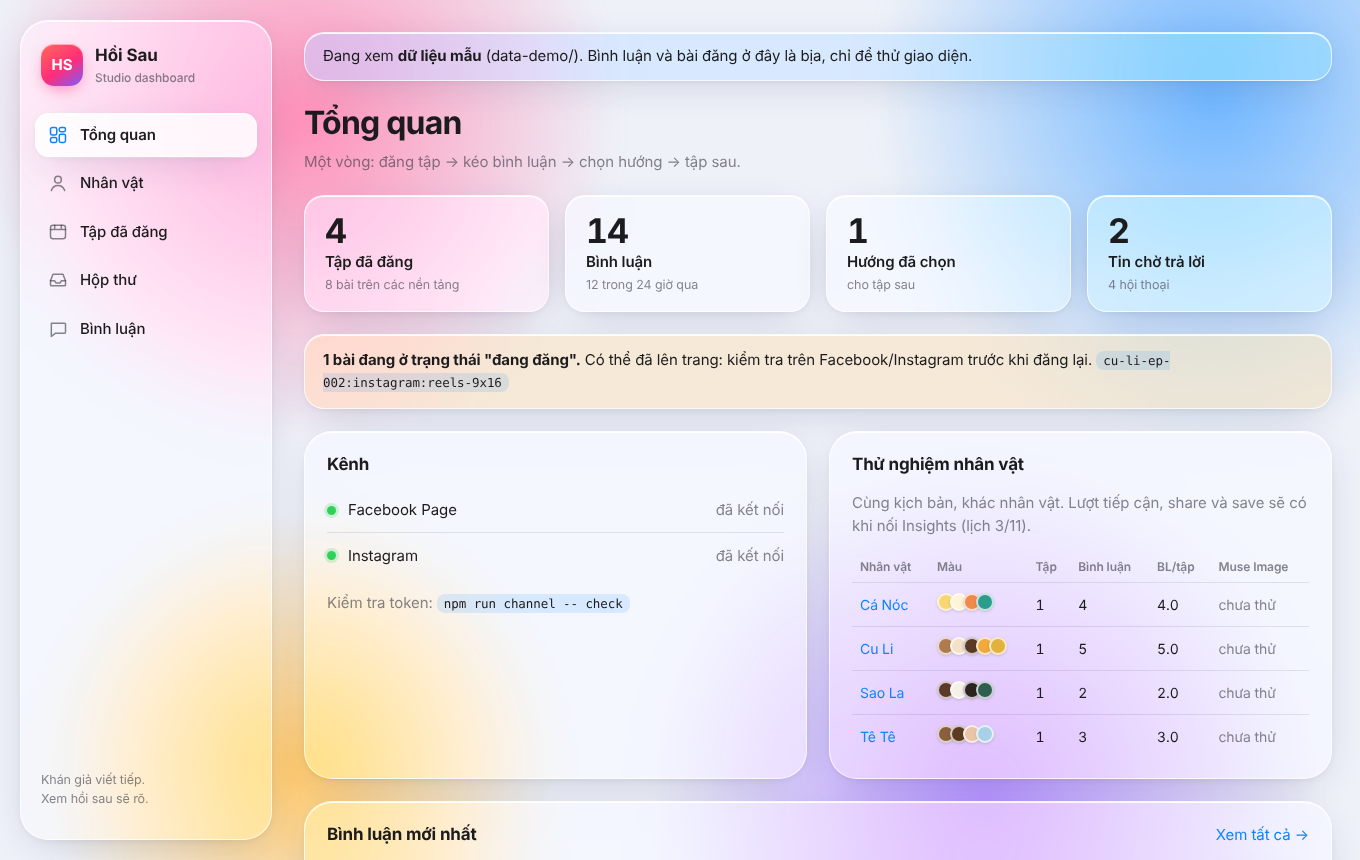
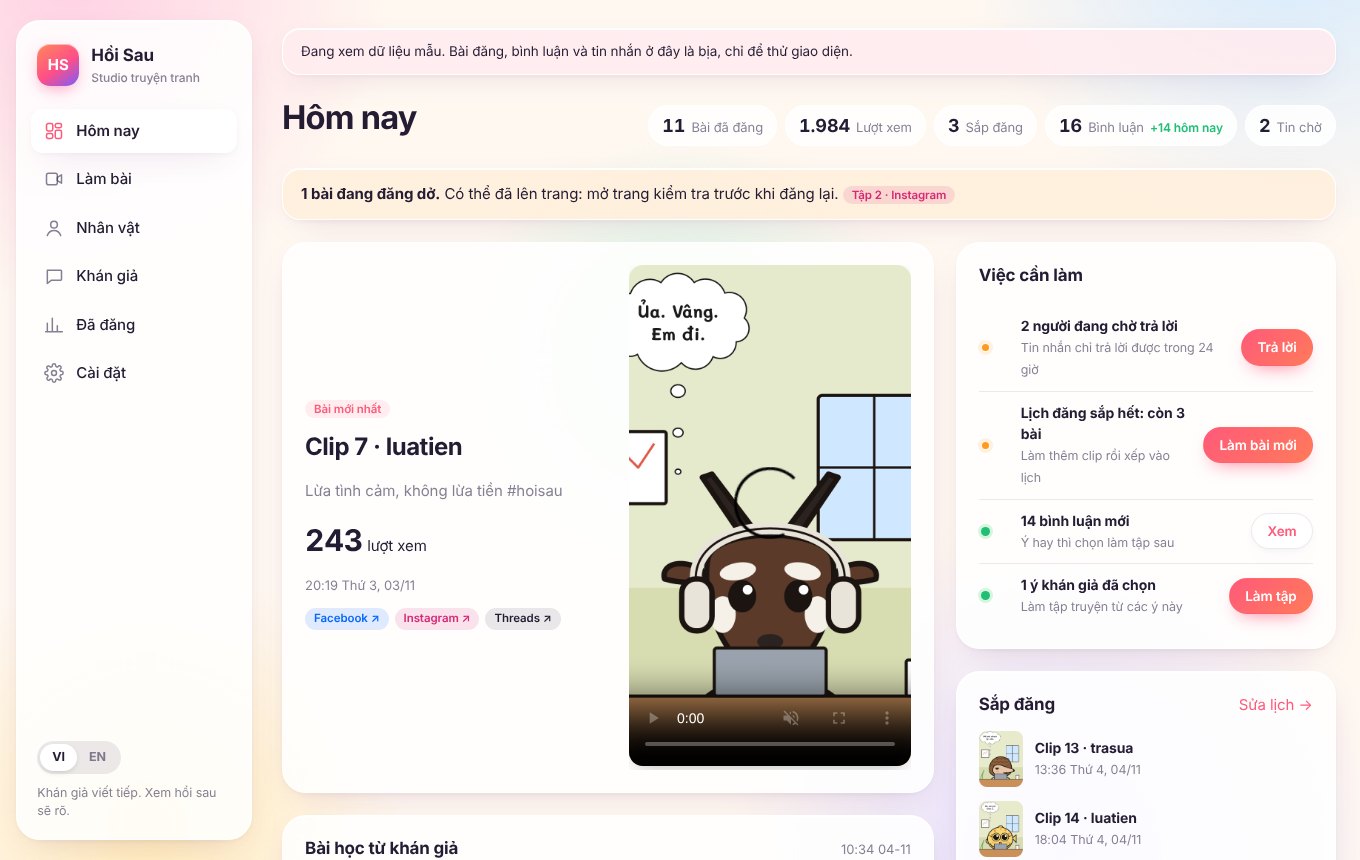
Dashboard polish after a full UI scan: Nét vẽ name, one panel first, to-do first on phones
- The style page and the setup steps say "Nét vẽ", matching the menu.
- One panel is listed first and is also the server default when no format is sent.
- On narrow screens the to-do card comes before the latest post.
- README screenshots retaken with the new menu.

Claude-Session: https://claude.ai/code/session_01RWyiXam1o4scTwsttFySHV

diff --git a/packages/dashboard/src/studio.ts b/packages/dashboard/src/studio.ts
@@ -206,7 +206,7 @@ export class Studio {
     const lead = form.get("lead") ?? "";
     const direction = (form.get("direction") ?? "").trim();
     if (!direction) throw new Error(t("Hãy viết hướng truyện."));
-    const format = (form.get("format") || "strip3") as EpisodeFormat;
+    const format = (form.get("format") || "single") as EpisodeFormat;
     const headline = (form.get("headline") ?? "").trim();
     const ep = createEpisode({ id: (form.get("id") ?? "").trim() || this.nextId(lead), lead, characters: form.getAll("with"), direction, credits, format, ...(headline ? { headline } : {}) }, this.opts.episodesDir);
     return ep.id;
@@ -371,7 +371,7 @@ export function studioPage(s: State, st: Studio, error?: string, inspiration = "
 <fieldset class="pick-cast"><legend>${esc(t("Nhân vật chính"))}</legend>${cast.map((c, i) => `<label class="cast-pick"><input type="radio" name="lead" value="${esc(c.profile.slug)}"${c.profile.slug === defaultLead || (!defaultLead && i === 0) ? " checked" : ""}><img src="${pic(c.profile.slug)}" alt="" style="background:${esc(c.profile.look.palette[0].hex)}44"><span>${esc(c.profile.name)}</span></label>`).join("")}</fieldset>
 <fieldset class="pick-cast small-pick"><legend>${esc(t("Cùng xuất hiện"))}</legend>${cast.map((c) => `<label class="cast-pick" data-slug="${esc(c.profile.slug)}"${c.profile.slug === defaultLead ? " hidden" : ""}><input type="checkbox" name="with" value="${esc(c.profile.slug)}"><img src="${pic(c.profile.slug)}" alt="" style="background:${esc(c.profile.look.palette[0].hex)}44"><span>${esc(c.profile.name)}</span></label>`).join("")}</fieldset>
 <label>${esc(t("Hướng truyện"))}<textarea name="direction" rows="3" required placeholder="${esc(t("Chuyện gì xảy ra trong tập này"))}">${esc(ideas.map((c) => c.text).join("\n"))}</textarea></label>
-<fieldset class="pick-format"><legend>${esc(t("Kiểu truyện"))}</legend>${EPISODE_FORMATS.map((f) => `<label class="format-pick"><input type="radio" name="format" value="${f}"${f === "single" ? " checked" : ""}><span class="fmt fmt-${f}">${"<i></i>".repeat(f === "single" ? 1 : f === "strip3" ? 3 : 5)}</span>${esc(t(FORMAT_LABEL[f]))}</label>`).join("")}</fieldset>
+<fieldset class="pick-format"><legend>${esc(t("Kiểu truyện"))}</legend>${[...EPISODE_FORMATS].sort((a, b) => Number(b === "single") - Number(a === "single")).map((f) => `<label class="format-pick"><input type="radio" name="format" value="${f}"${f === "single" ? " checked" : ""}><span class="fmt fmt-${f}">${"<i></i>".repeat(f === "single" ? 1 : f === "strip3" ? 3 : 5)}</span>${esc(t(FORMAT_LABEL[f]))}</label>`).join("")}</fieldset>
 ${ideas.length ? `<fieldset><legend>${esc(t("Ghi công người bình luận"))}</legend>${ideas.map((c) => `<label class="check"><input type="checkbox" name="credit" value="${esc(`${c.author.name}::${c.text}`)}" checked> <b>${esc(c.author.name)}</b>: <span class="muted">${esc(c.text)}</span></label>`).join("")}</fieldset>` : `<p class="muted small">${t('Mẹo: chọn bình luận hay ở trang <a href="/comments">Bình luận</a>, chúng sẽ hiện ở đây làm hướng truyện.')}</p>`}
 ${inspiration}
 <div class="row-actions"><button class="btn on">${esc(t("Tạo tập"))}</button>${aiNote(st)}</div></form>
@@ -466,7 +466,7 @@ ${section("canon", canon ? (canon.facts.length ? `<ul>${canon.facts.map((f) => `
 export function stylePage(st: Studio, error?: string): string {
   const style = loadStyle(st.opts.seriesDir);
   const job = st.jobs.get("style");
-  if (!style) return layout(t("Phong cách"), "/style", `<header class="page-head"><div><h1>${esc(t("Phong cách"))}</h1></div></header><div class="card empty"><p>${esc(t("Chưa có bộ phong cách."))}</p></div>`);
+  if (!style) return layout(t("Nét vẽ"), "/style", `<header class="page-head"><div><h1>${esc(t("Nét vẽ"))}</h1></div></header><div class="card empty"><p>${esc(t("Chưa có bộ phong cách."))}</p></div>`);
   const runFile = join(st.styleDir, "run.json");
   const renders: StyleRender[] = existsSync(runFile) ? (JSON.parse(readFileSync(runFile, "utf8")) as { renders: StyleRender[] }).renders : [];
   const cards = style.variants
@@ -486,10 +486,10 @@ export function stylePage(st: Studio, error?: string): string {
   const locked = style.reference
     ? `<section class="card"><h2>${esc(t("Ảnh mẫu đang dùng"))}</h2><img class="sheet" src="/series-media/${encodeURIComponent(style.reference)}" alt=""><p class="muted small">${esc(t("Ảnh này đi kèm mọi bản vẽ chuẩn và khung đầu của mỗi tập. Đổi phong cách thì nên vẽ lại bản chuẩn của các nhân vật."))}</p></section>`
     : "";
-  const body = `<header class="page-head"><div><h1>${esc(t("Phong cách"))}</h1><p class="muted">${esc(t("Một kiểu vẽ cho cả series. Cùng một cảnh được vẽ theo từng kiểu; chọn kiểu đọc rõ nhất trên điện thoại."))}</p></div></header>
+  const body = `<header class="page-head"><div><h1>${esc(t("Nét vẽ"))}</h1><p class="muted">${esc(t("Một kiểu vẽ cho cả series. Cùng một cảnh được vẽ theo từng kiểu; chọn kiểu đọc rõ nhất trên điện thoại."))}</p></div></header>
 ${bar}
 <div class="styles">${cards}</div>
 ${locked}
 <section class="card"><details><summary><b>${esc(t("Phần chung"))}</b> <span class="muted small">${esc(t("Mô tả gửi AI"))}</span></summary><p>${esc(style.base)}</p>${style.avoid.length ? `<h3>${esc(t("Tránh"))}</h3><ul>${style.avoid.map((a) => `<li>${esc(a)}</li>`).join("")}</ul>` : ""}</details></section>`;
-  return layout(t("Phong cách"), "/style", body);
+  return layout(t("Nét vẽ"), "/style", body);
 }

diff --git a/packages/dashboard/src/views.ts b/packages/dashboard/src/views.ts
@@ -711,7 +711,7 @@ export function settingsPage(settings: SettingView[], opts: { demo: boolean; moc
 ${flash(opts.ok, opts.error)}
 ${opts.demo ? `<div class="notice">${esc(t("Đang xem dữ liệu mẫu nên không lưu cài đặt."))}</div>` : ""}
 <div class="settings-grid"><form class="card form" method="post" action="/settings"><h2>${esc(t("Khoá kết nối"))}</h2>${rows}<button class="btn on"${opts.demo ? " disabled" : ""}>${esc(t("Lưu"))}</button></form>
-<div class="settings-side"><section class="card"><h2>${esc(t("Thứ tự thiết lập"))}</h2><ol class="flow vertical"><li><b>1</b><span>${esc(t("Nhập Mã ứng dụng Meta và Khoá bí mật"))}</span></li><li><b>2</b><span>${t('Vào <a href="/channels">Kênh</a>, bấm Kết nối Facebook, chọn Trang')}</span></li><li><b>3</b><span>${esc(t("Nhập khoá AI Muse để AI viết và vẽ"))}</span></li><li><b>4</b><span>${t('Vào <a href="/style">Phong cách</a> chọn kiểu vẽ, rồi vẽ bản chuẩn cho nhân vật')}</span></li></ol>
+<div class="settings-side"><section class="card"><h2>${esc(t("Thứ tự thiết lập"))}</h2><ol class="flow vertical"><li><b>1</b><span>${esc(t("Nhập Mã ứng dụng Meta và Khoá bí mật"))}</span></li><li><b>2</b><span>${t('Vào <a href="/channels">Kênh</a>, bấm Kết nối Facebook, chọn Trang')}</span></li><li><b>3</b><span>${esc(t("Nhập khoá AI Muse để AI viết và vẽ"))}</span></li><li><b>4</b><span>${t('Vào <a href="/style">Nét vẽ</a> chọn kiểu vẽ, rồi vẽ bản chuẩn cho nhân vật')}</span></li></ol>
 ${opts.mock ? `<p class="muted small">${esc(t("AI đang ở chế độ vẽ thử: ảnh là mẫu, không tốn lượt."))}</p>` : ""}</section>${backupCard(opts.backup)}</div></div>`;
   return layout(t("Cài đặt"), "/settings", body);
 }

diff --git a/packages/dashboard/src/i18n-en.ts b/packages/dashboard/src/i18n-en.ts
@@ -339,7 +339,7 @@ export const EN: Record<string, string> = {
   "Nhập Mã ứng dụng Meta và Khoá bí mật": "Enter the Meta App ID and App Secret",
   'Vào <a href="/channels">Kênh</a>, bấm Kết nối Facebook, chọn Trang': 'Go to <a href="/channels">Channels</a>, click Connect Facebook, pick the Page',
   "Nhập khoá AI Muse để AI viết và vẽ": "Enter the Muse AI key so the AI can write and draw",
-  'Vào <a href="/style">Phong cách</a> chọn kiểu vẽ, rồi vẽ bản chuẩn cho nhân vật': 'Pick an <a href="/style">Art style</a>, then draw each character\'s model sheet',
+  'Vào <a href="/style">Nét vẽ</a> chọn kiểu vẽ, rồi vẽ bản chuẩn cho nhân vật': 'Pick an <a href="/style">Art style</a>, then draw each character\'s model sheet',
   "AI đang ở chế độ vẽ thử: ảnh là mẫu, không tốn lượt.": "The AI is in test mode: pictures are samples and cost nothing.",
   "Mã ứng dụng Meta (App ID)": "Meta App ID",
   "developers.facebook.com → Ứng dụng của bạn → Cài đặt → Thông tin cơ bản": "developers.facebook.com → My Apps → Settings → Basic",

diff --git a/packages/dashboard/static/app.css b/packages/dashboard/static/app.css
@@ -535,7 +535,7 @@ img.sheet { max-width: 100%; }
   .side-foot { align-items: center; padding: 0; }
   .lang { flex-direction: column; border-radius: 14px; }
   .overview { grid-template-columns: 1fr; }
-  .ov-side { position: static; }
+  .ov-side { position: static; order: -1; }
   .settings-grid { grid-template-columns: 1fr; }
 }
 @media (max-width: 1000px) {
@@ -558,7 +558,7 @@ img.sheet { max-width: 100%; }
   main { padding: 0 2px 40px; }
   .page-head { align-items: flex-start; }
   .overview, .settings-grid { grid-template-columns: 1fr; }
-  .ov-side { position: static; }
+  .ov-side { position: static; order: -1; }
   .grid2 { grid-template-columns: 1fr; }
   .card { padding: 16px; border-radius: 20px; }
   .comment { grid-template-columns: 36px minmax(0, 1fr) auto; }

diff --git a/docs/studio-pipeline.md b/docs/studio-pipeline.md
@@ -96,7 +96,7 @@ npm run studio -- episode list
 # Add --mock to any of these to run offline with placeholder answers and images.
 ```
 
-The same actions are in the dashboard (`npm run dashboard`). **Phong cách** draws the four style variants and locks the one you pick. **Nhân vật → Tạo nhân vật** makes a character, **Vẽ sheet** draws its model sheet, pose sheet and test panels in the series style, **Khoá model sheet** locks both sheets, and **Studio** creates an episode from the picked comments (the three-panel strip is the default format; its episode page shows the one-image post). The Studio episode page runs it and shows every step's output, with a "Chạy lại từ đây" (rerun from here) button on each step. `npm run dashboard -- --demo` does all of this on copies in `data-demo/`, with a finished sample episode.
+The same actions are in the dashboard (`npm run dashboard`). **Nhân vật → Nét vẽ** draws the four style variants and locks the one you pick. **Nhân vật → Tạo nhân vật** makes a character, **Vẽ sheet** draws its model sheet, pose sheet and test panels in the series style, **Khoá model sheet** locks both sheets, and **Studio** creates an episode from the picked comments (the three-panel strip is the default format; its episode page shows the one-image post). The Studio episode page runs it and shows every step's output, with a "Chạy lại từ đây" (rerun from here) button on each step. `npm run dashboard -- --demo` does all of this on copies in `data-demo/`, with a finished sample episode.
 
 ## Cost and limits
 
